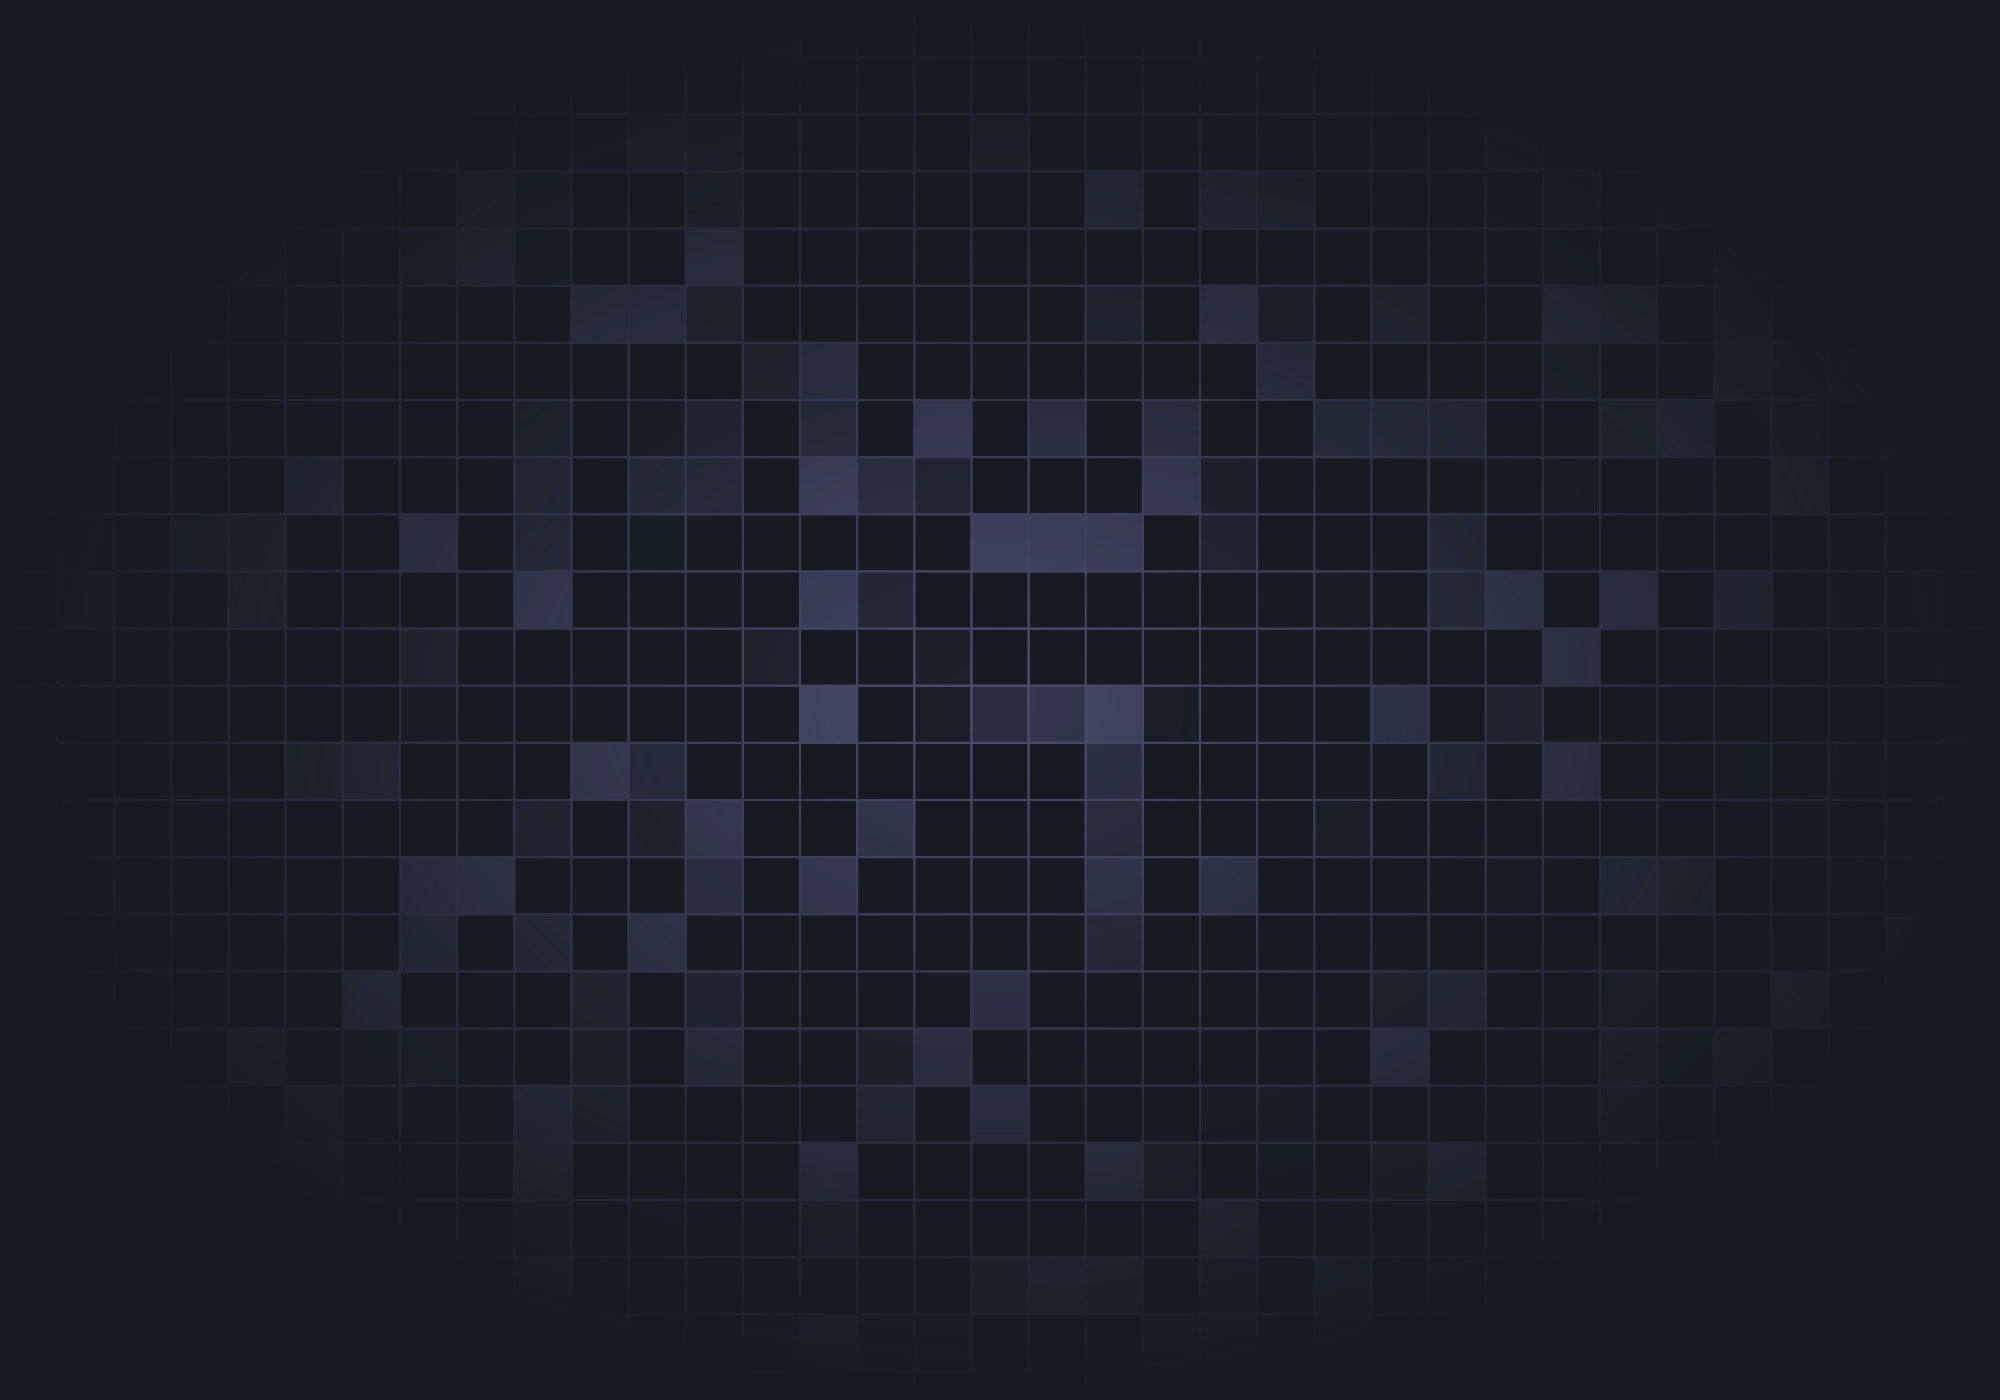
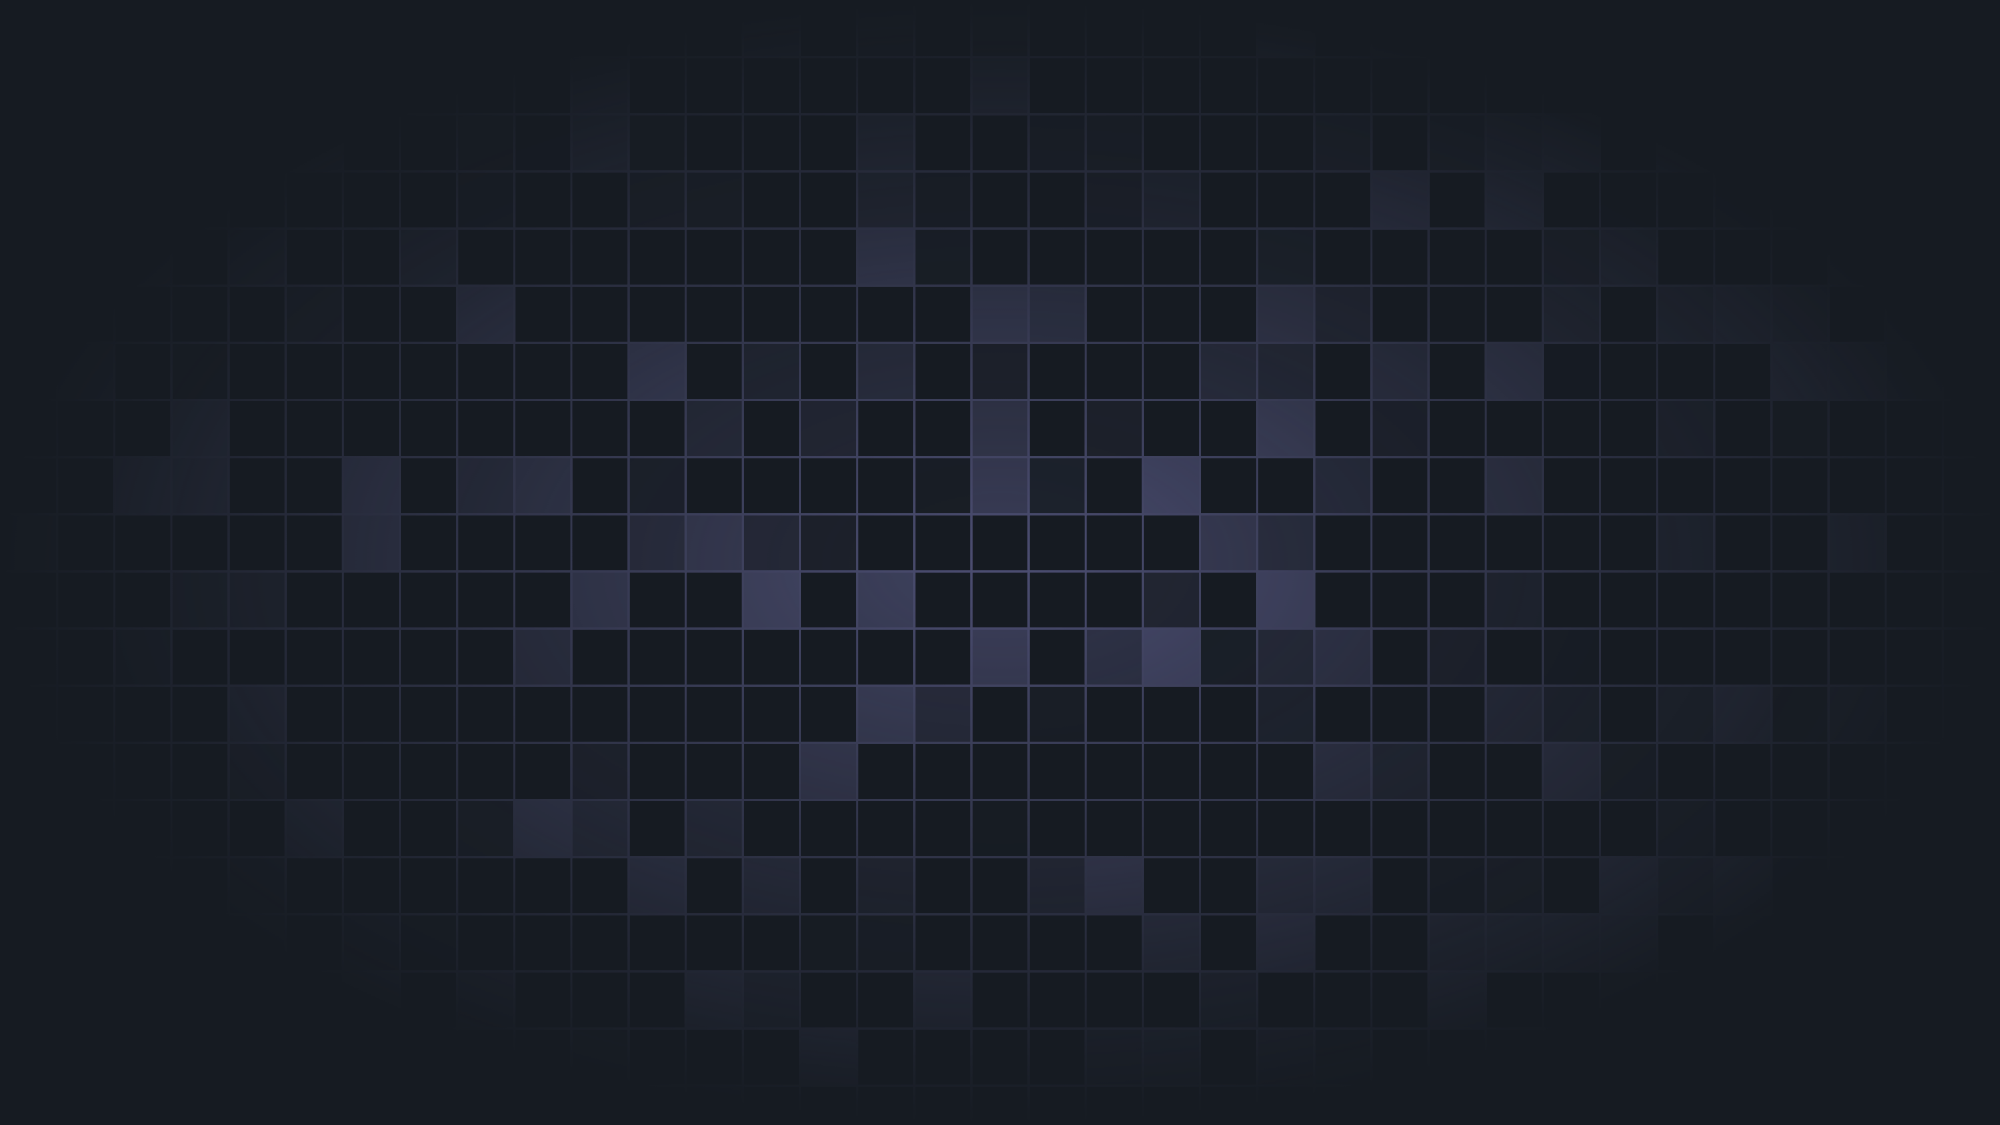
almost done with landing, started animating

diff --git a/portfolio-v2/src/app/page.js b/portfolio-v2/src/app/page.js
@@ -1,37 +1,23 @@
 
 'use client';
-import Image from "next/image";
 import './fonts.css';
 import { useState } from "react";
-
+import Portfolio from './portfolio';
+import NavBar from './header';
 export default function Home() {
   let typingArr = ["UX DESIGNER", "FRONT END DEVELOPER"]
   const [currWord, setCurrWord] = useState(typingArr[0])
-
+  //       <div className="hidden sm:flex glassmorphic w-10/12 h-20 rounded-full"></div>
   // need to add nav bar outside of main
   return (
-    <main className="flex min-h-screen flex-col items-center justify-between py-10 bg-[#161B22]">
-      <div className="hidden sm:flex glassmorphic w-10/12 h-20 rounded-full"></div>
-      <div className="w-10/12 h-auto flex-grow">
-          <div className="md:bg-grid bg-[size:95%_95%] bg-auto bg-center bg-no-repeat bg-contain w-full h-screen py-24 flex flex-col bg-origin-border bg-center bg-cover bg-no-repeat p-8 border-white border-solid border-2">
-            <div className="flex flex-col border-white border-solid border-2 h-auto justify-between">
-              <h3 className="font-inter text-[#7B4EE6] text-2xl mb-3">{currWord}</h3>
-              <h1 className="font-poppins text-white text-5xl mb-1">Hey, I'm <span className="underline">Matt</span> 👋</h1>
-              <p className="text-white text-base">I like to <span className="font-inter font-bold text-[#7B4EE6]">design</span> and <span className="font-inter font-bold text-[#7B4EE6]">develop</span> user interfaces.</p>
-            </div>
-            <div className="w-5/12 h-40 rounded-lg mt-9 relative">
-              <div className="w-full h-full glassmorphic rounded-lg z-20 relative">
-                test
-              </div>
-              <div className="w-32 h-32 bg-white rounded-full absolute bottom-0 left-0 -translate-x-1/2 translate-y-1/2 gradient-circle z-10">
-              
-              </div>
-            </div>
-          </div>
-      </div>
- 
-
-
-    </main>
+    <div className='relative bg-[#161B22] h-screen flex flex-col'>
+      <div className="absolute inset-0 img-container md:bg-grid bg-center bg-no-repeat w-screen-h-screen z-0 p-10"></div>
+      <header className='border-2 border-white border-solid py-10 relative z-10'>
+        <NavBar />
+      </header>
+      <main className="flex flex-grow flex-col items-center justify-between border-2 border-white border-solid relative z-10">
+        <Portfolio />
+      </main>
+    </div>
   );
 }

diff --git a/portfolio-v2/src/app/portfolio.js b/portfolio-v2/src/app/portfolio.js
@@ -1,0 +1,36 @@
+
+'use client';
+import './fonts.css';
+import { useState } from "react";
+
+export default function Portfolio() {
+  let typingArr = ["UX DESIGNER", "FRONT END DEVELOPER"]
+  const [currWord, setCurrWord] = useState(typingArr[0])
+
+  // need to add nav bar outside of main
+  return (
+    <div className="w-full h-full flex justify-center items-start">
+      <div className="w-10/12 h-full flex justify-center items-center py-10">
+        <div className="h-full w-full flex flex-col">
+          <div className="flex flex-col h-auto justify-between">
+            <h3 className="font-inter text-[#7B4EE6] text-2xl mb-3">{currWord}</h3>
+            <h1 className="font-poppins text-white text-5xl mb-1">Hey, I'm <span className="underline">Matt</span> 👋</h1>
+            <p className="text-white text-base">I like to <span className="font-inter font-bold text-[#7B4EE6]">design</span> and <span className="font-inter font-bold text-[#7B4EE6]">develop</span> user interfaces.</p>
+          </div>
+          <div className="w-5/12 h-40 rounded-lg mt-9 relative mt-10">
+            <div className="w-24 h-24 bg-white rounded-full absolute top-0 right-0 translate-x-1/2 -translate-y-1/2 gradient-circle z-30">
+              <div className="w-8 h-8 bg-white rounded-full absolute top-0 right-0 translate-x-3/4 -translate-y-full gradient-circle z-30 blur-sm"></div>
+            </div>
+            <div className="w-full h-full glassmorphic rounded-lg z-20 relative">
+              test
+            </div>
+            <div className="w-32 h-32 bg-white rounded-full absolute bottom-0 left-0 -translate-x-1/2 translate-y-1/2 gradient-circle z-10">
+              <div className="w-16 h-16 bg-white rounded-full absolute top-0 left-0 -translate-x-3/4 -translate-y-3/4 gradient-circle z-30"></div>
+              <div className="w-8 h-8 bg-white rounded-full absolute bottom-0 right-0 translate-x-3/4 translate-y-3/4 gradient-circle z-30 blur-sm"></div>
+            </div>
+          </div>
+        </div>
+      </div>
+    </div>
+  );
+}

diff --git a/portfolio-v2/src/app/about.js b/portfolio-v2/src/app/about.js
@@ -1,0 +1,39 @@
+
+'use client';
+import './fonts.css';
+import { useState } from "react";
+
+export default function Home() {
+  let typingArr = ["UX DESIGNER", "FRONT END DEVELOPER"]
+  const [currWord, setCurrWord] = useState(typingArr[0])
+
+  // need to add nav bar outside of main
+  return (
+    <main className="flex min-h-screen flex-col items-center justify-between py-10 bg-[#161B22]">
+      <div className="hidden sm:flex glassmorphic w-10/12 h-20 rounded-full"></div>
+      <div className="w-10/12 flex-grow flex justify-center items-center">
+          <div className="img-container md:bg-grid bg-center bg-no-repeat w-full h-screen py-24 flex flex-col p-8 border-2 border-solid border-white z-10">
+            <div className="flex flex-col border-white border-solid border-2 h-auto justify-between">
+              <h3 className="font-inter text-[#7B4EE6] text-2xl mb-3">{currWord}</h3>
+              <h1 className="font-poppins text-white text-5xl mb-1">Hey, I'm <span className="underline">Matt</span> 👋</h1>
+              <p className="text-white text-base">I like to <span className="font-inter font-bold text-[#7B4EE6]">design</span> and <span className="font-inter font-bold text-[#7B4EE6]">develop</span> user interfaces.</p>
+            </div>
+            <div className="w-5/12 h-40 rounded-lg mt-9 relative">
+              <div className="w-24 h-24 bg-white rounded-full absolute top-0 right-0 translate-x-1/2 -translate-y-1/2 gradient-circle z-30">
+                <div className="w-8 h-8 bg-white rounded-full absolute top-0 right-0 translate-x-3/4 -translate-y-3/4 gradient-circle z-30 blur-sm"></div>
+              </div>
+              <div className="w-full h-full glassmorphic rounded-lg z-20 relative">
+                test
+              </div>
+              <div className="w-32 h-32 bg-white rounded-full absolute bottom-0 left-0 -translate-x-1/2 translate-y-1/2 gradient-circle z-10">
+              
+              </div>
+            </div>
+          </div>
+      </div>
+ 
+
+
+    </main>
+  );
+}

diff --git a/portfolio-v2/src/app/header.js b/portfolio-v2/src/app/header.js
@@ -1,0 +1,33 @@
+
+'use client';
+import './fonts.css';
+import { useState } from "react";
+import Link from 'next/link';
+import { motion } from 'framer-motion';
+
+export default function NavBar() {
+  let typingArr = ["UX DESIGNER", "FRONT END DEVELOPER"]
+  const [currWord, setCurrWord] = useState(typingArr[0])
+
+  // need to add nav bar outside of main
+  return (
+
+    <motion.div
+    initial={{ width: '8.333%'}} // Center initially
+    animate={{ width: '83.333%'}} // Center while animating
+    transition={{ duration: 0.75, ease: 'easeInOut' }}
+    className='m-auto'
+    >
+    <nav className="hidden sm:flex glassmorphic w-full h-20 rounded-full justify-center items-center">
+      <ul className="flex justify-center space-x-4 font-inter font-semiBold text-lg">
+        <li>
+          <Link href="/" className="text-white">Home</Link>
+        </li>
+        <li>
+          <Link href="/about" className="text-white">About Me</Link>
+        </li>
+      </ul>
+    </nav>
+    </motion.div>
+  );
+}

diff --git a/portfolio-v2/src/app/fonts.css b/portfolio-v2/src/app/fonts.css
@@ -19,6 +19,13 @@
   font-style: normal;
 }
 
+@font-face {
+  font-family: 'Inter';
+  src: url('../fonts/Inter-SemiBold.ttf') format('truetype');
+  font-weight: 600;
+  font-style: normal;
+}
+
 
 
 .glassmorphic {
@@ -31,4 +38,13 @@ backdrop-filter: blur(16px);
 .gradient-circle {
   background: linear-gradient(180deg, #7B4EE6 0%, #442B80 100%);
   box-shadow: 0px 4px 4px rgba(0, 0, 0, 0.25);
+}
+
+.img-container {
+  background-size: 70%;
+  opacity: 50%;
+}
+
+.shadow-outline {
+  box-shadow: 0 0 0 4px white; /* Adjust the offset, blur, and color as needed */
 }

diff --git a/portfolio-v2/tailwind.config.js b/portfolio-v2/tailwind.config.js
@@ -14,6 +14,9 @@ module.exports = {
         inter: ['Inter', 'sans-serif'],
         poppins: ['Poppins', 'sans-serif'], 
       },
+      fontWeight: {
+        semiBold: 600,
+      }
     },
   },
   plugins: [],
